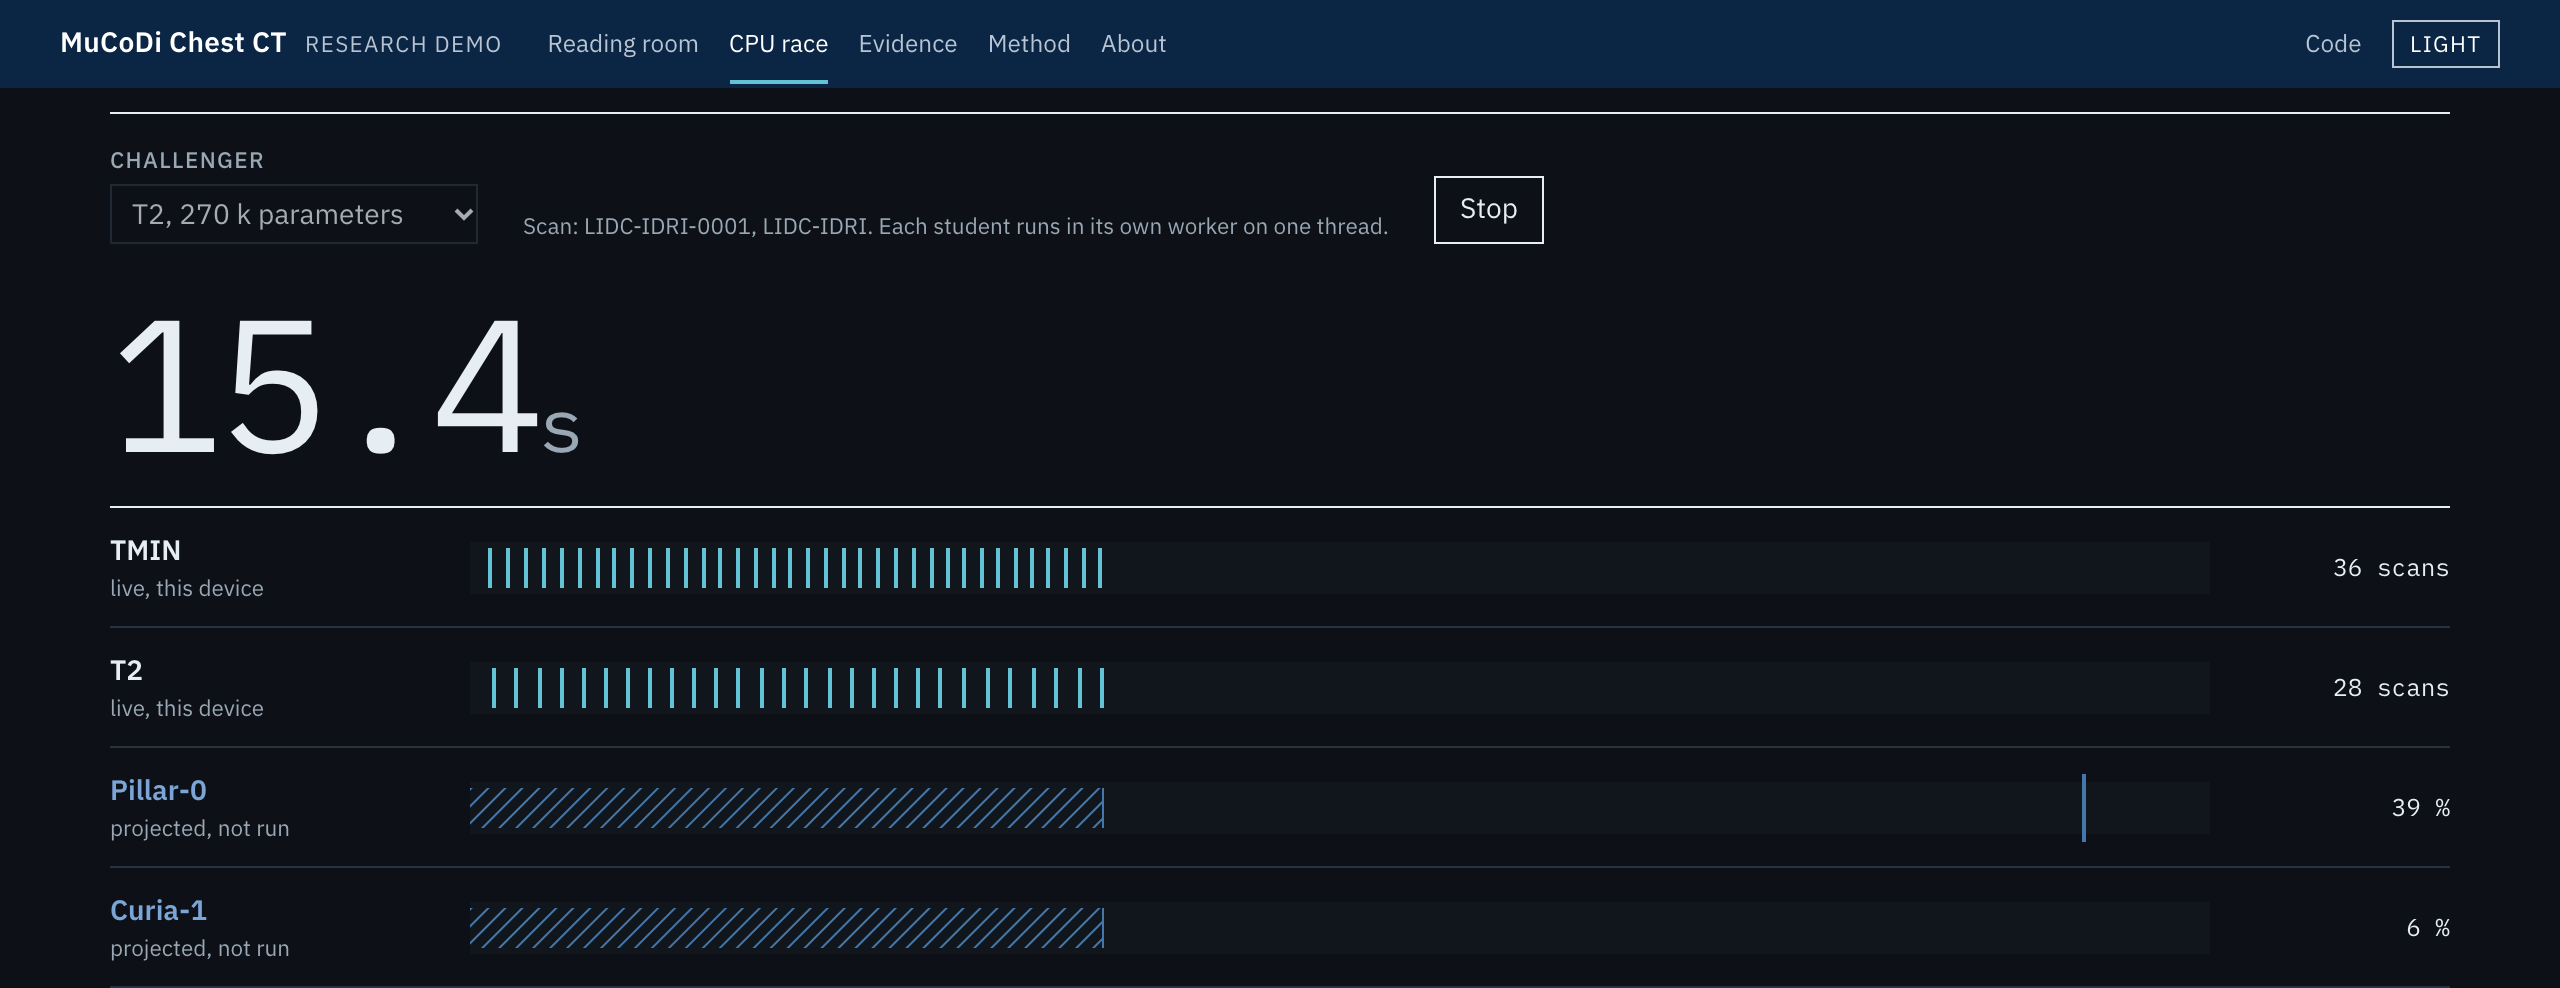
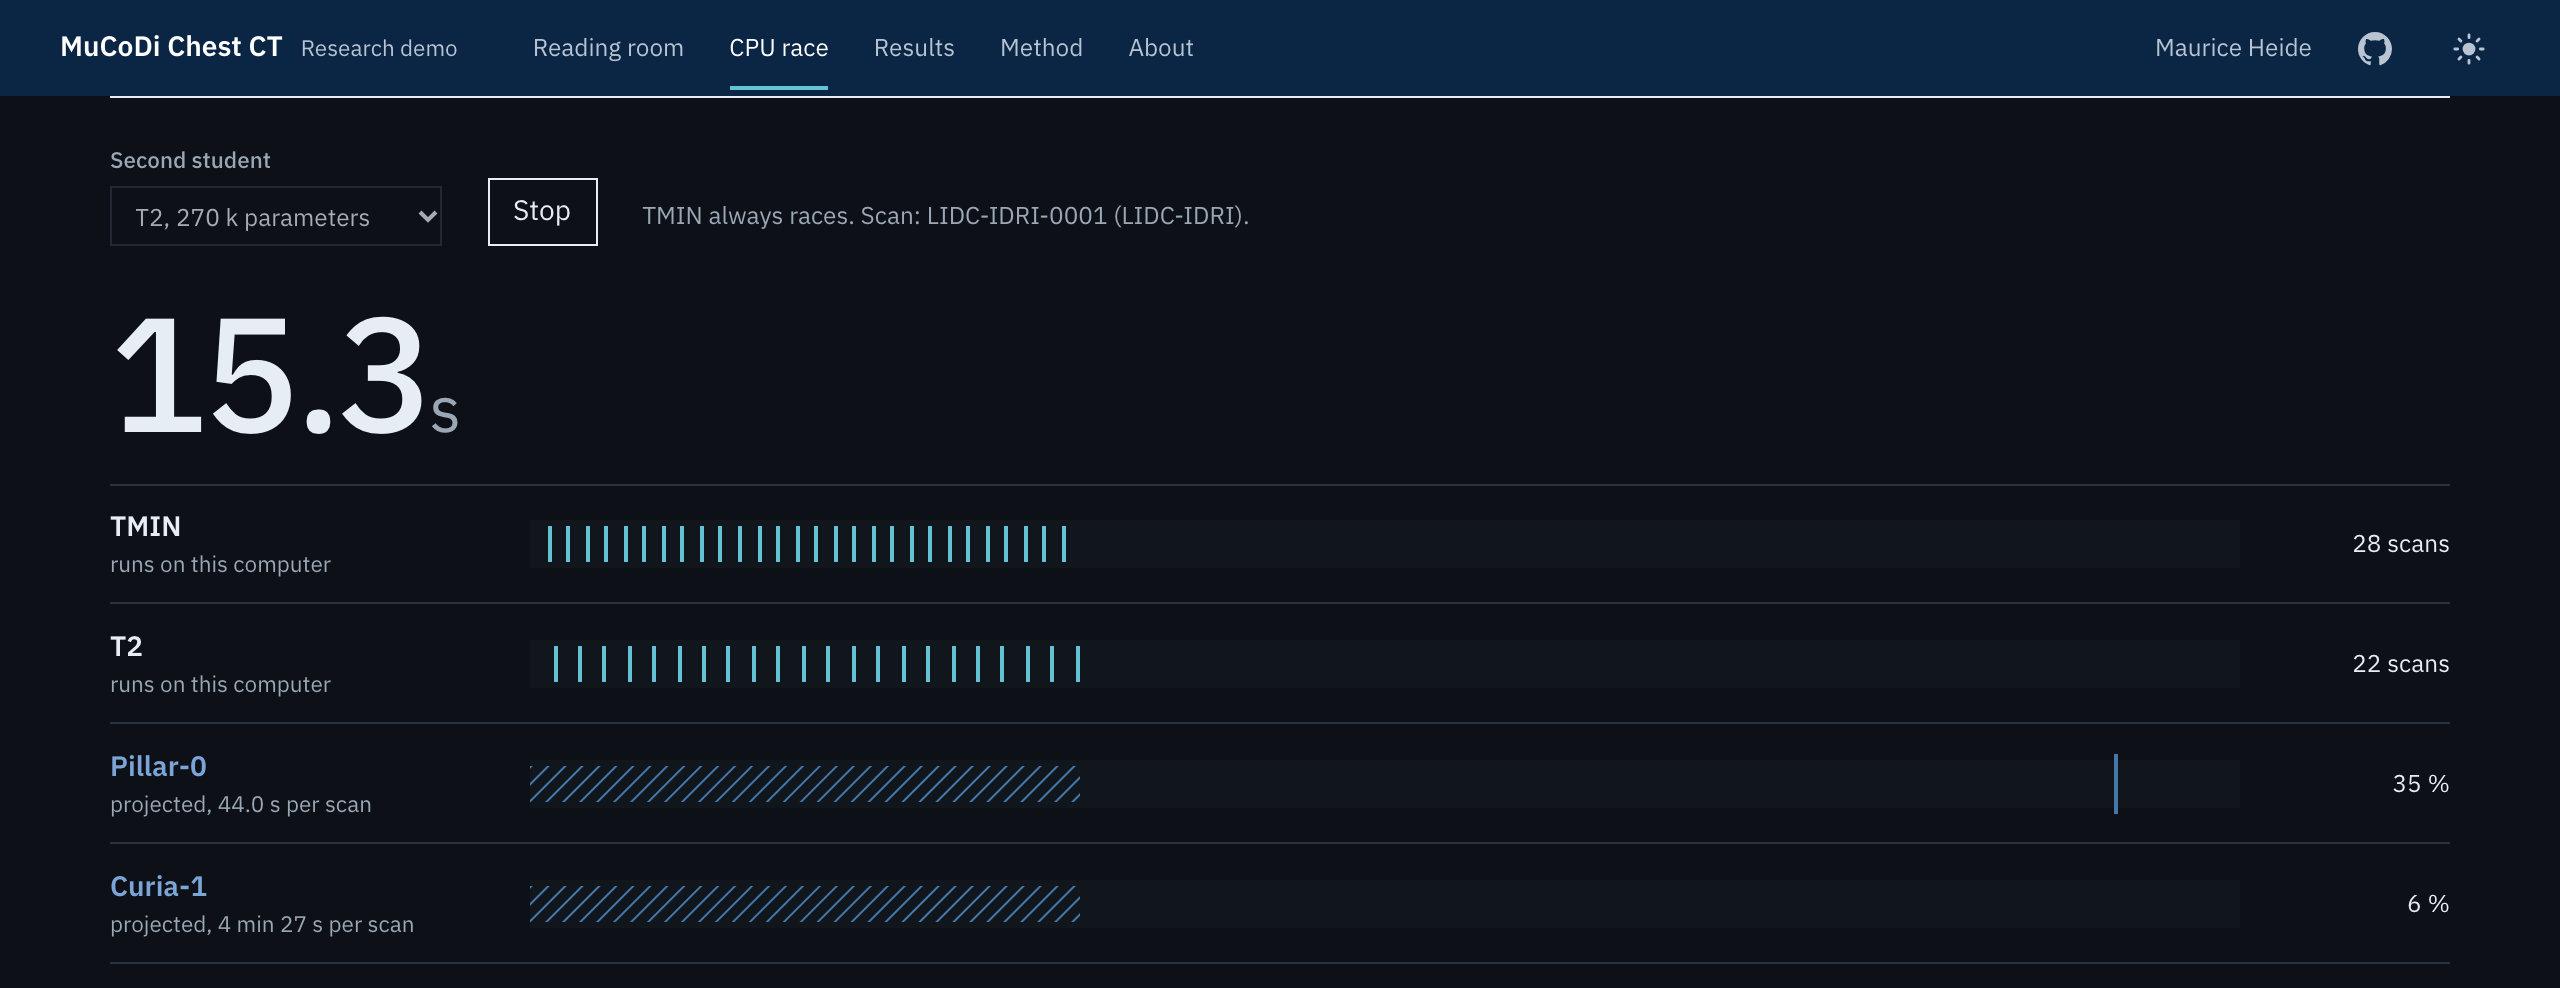
Show the redesigned CPU race on the radiology thesis card

diff --git a/src/content/projects/radiology-thesis.md b/src/content/projects/radiology-thesis.md
@@ -5,7 +5,7 @@ kind: Bachelor thesis
 context: Harvard Medical School and MGH, 2026
 summary: Six published CT foundation models benchmarked on 11 cohorts, the two strongest distilled into 14 compact 3D models. With an MLP probe, a 3M-parameter student comes within 0.2 AUROC points of its 79M-parameter teacher. A web demo runs the students on your own CPU.
 image: ../../assets/projects/radiology-thesis.png
-imageAlt: The CPU race of the MuCoDi Chest CT demo. After 15 seconds on one CPU thread the smallest student, TMIN, has encoded 36 chest CTs and T2 28, while the hatched lanes of the two teachers, projected from their measured single-core times, have not finished one.
+imageAlt: The CPU race of the MuCoDi Chest CT demo. After 15 seconds, each on one CPU thread, the smallest student, TMIN, has encoded 28 chest CTs and T2 22, while the hatched lanes of the two teachers, projected from their measured single-core times, have not finished one.
 links:
   - { label: Open the demo, href: /mucodi-radiology/ }
   - { label: Code, href: 'https://github.com/mooofna/mucodi-radiology' }
